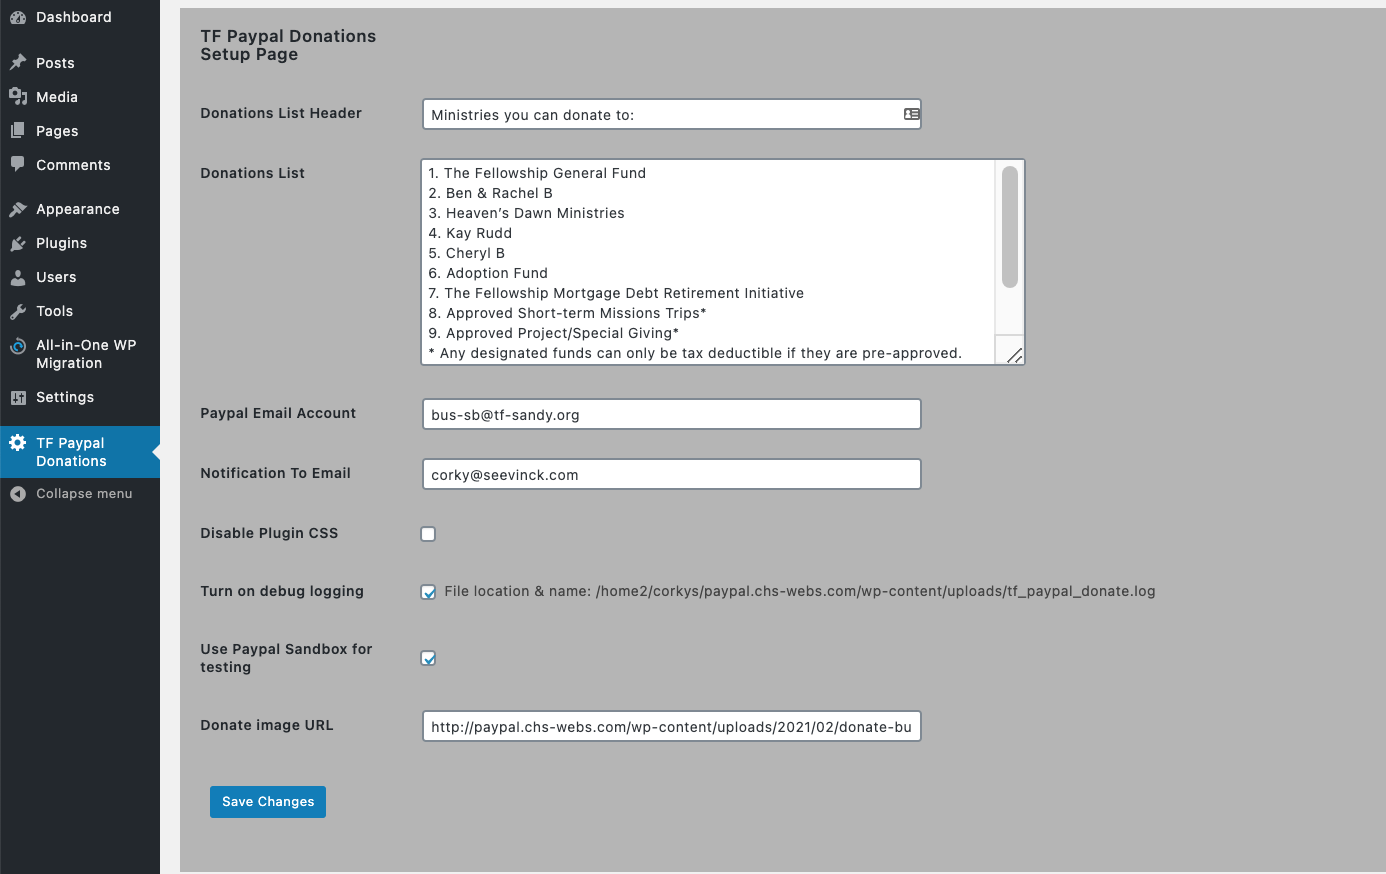
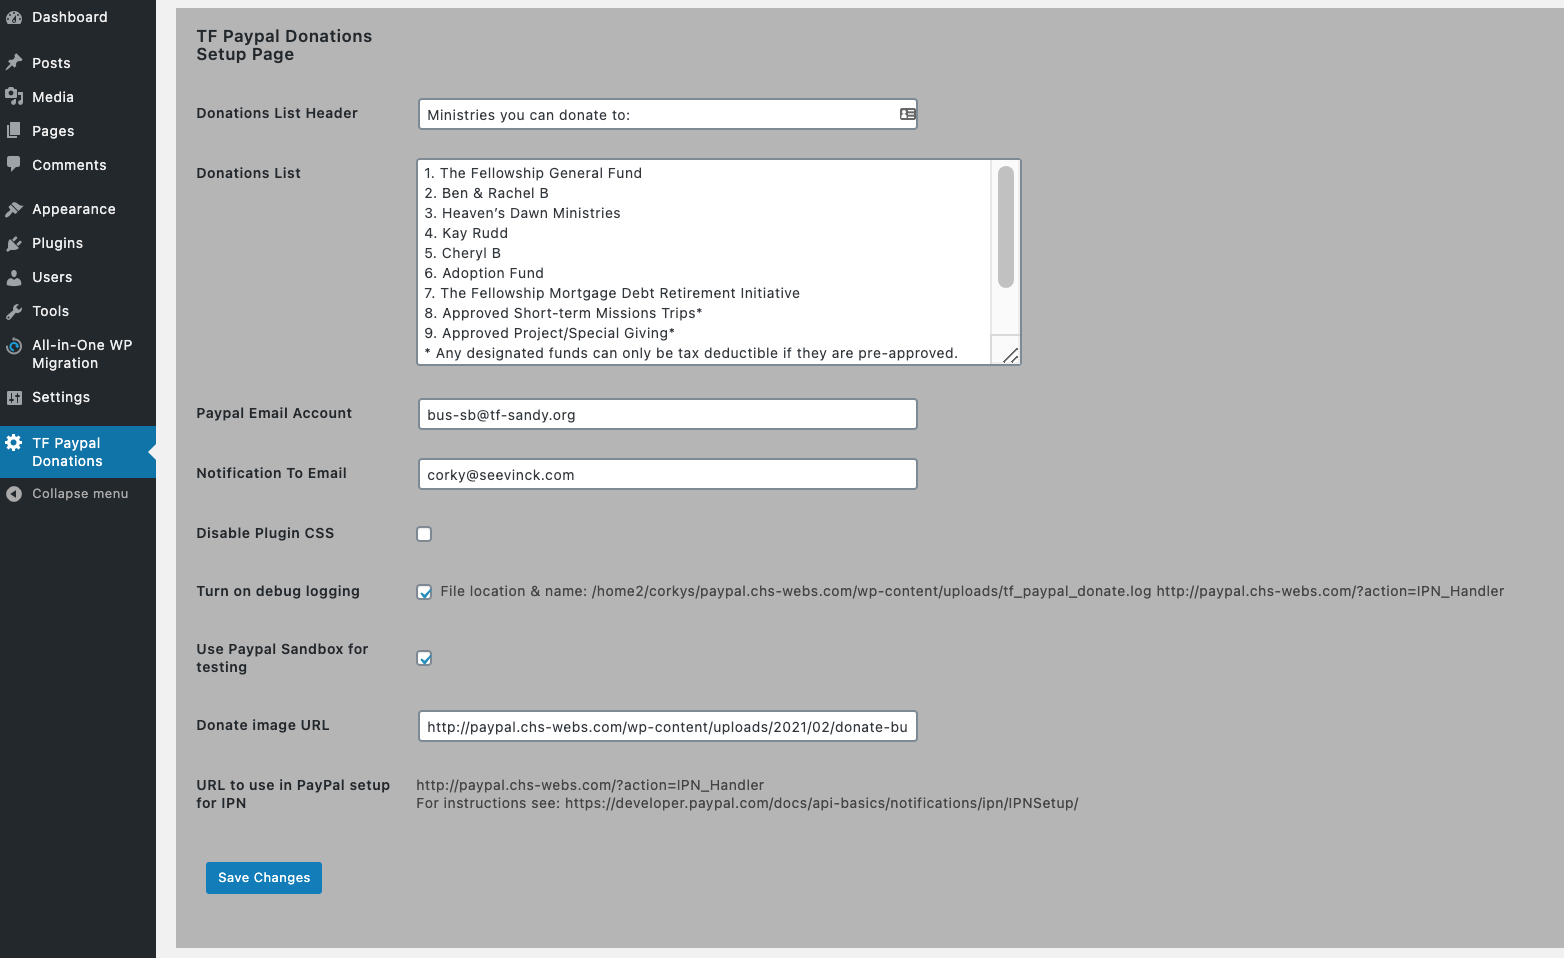
Insert display of PayPal IPN url display in admin

diff --git a/css/tfdonstyle.css b/css/tfdonstyle.css
@@ -61,5 +61,5 @@
 		text-align: left ! important;
 		padding-left: 0;
 	}
-
+	
 }

diff --git a/inc/tfdon-admin.php b/inc/tfdon-admin.php
@@ -100,6 +100,14 @@ function tfdon_settings_init(  ) {
 		'tfdon_pluginPage', 
 		'tfdon_pluginPage_section'  
 	);
+
+	add_settings_field( 
+		'tfdon_ipn_url_handle', 
+		__( 'URL to use in PayPal setup for IPN', 'wordpress' ), 
+		'tfdon_ipn_url_render', 
+		'tfdon_pluginPage', 
+		'tfdon_pluginPage_section' 
+	);
 }
 
 function tfdon_give_to_render(  ) { 
@@ -184,6 +192,7 @@ function tfdon_log_render(  ) {
 	?>
 	<input type='checkbox' id='tfdon_log' name='tfdon_settings[tfdon_log]' 
 	<?php checked( isset($options['tfdon_log']), 1 ); ?> value='1'>  <?php echo "File location & name: $file"?>
+	<?php echo site_url()."/?action=IPN_Handler"; ?>
 	<?php
 }
 
@@ -193,6 +202,14 @@ function tfdon_paypal_testing_render(  ) {
 	?>
 	<input type='checkbox' id='tfdon_paypal_testing' name='tfdon_settings[tfdon_paypal_testing]' 
 	<?php checked( isset($options['tfdon_paypal_testing']), 1 ); ?> value='1'>
+	<?php
+}
+
+function tfdon_ipn_url_render(  ) { 
+	$options = get_option( 'tfdon_settings' );
+	?>
+	<?php echo site_url()."/?action=IPN_Handler"; ?><br>
+	For instructions see: https://developer.paypal.com/docs/api-basics/notifications/ipn/IPNSetup/
 	<?php
 }
 
@@ -210,9 +227,9 @@ function tfdon_options_page(  ) {
 			<?php
 			settings_fields( 'tfdon_pluginPage' );
 			do_settings_sections( 'tfdon_pluginPage' );
-			?> 
-			</div>
-			<div class='tfdon_form_section'> 
+			?>
+		</div>
+		<div class='tfdon_form_section'> 
 			<?php
 			submit_button();
 			?>
